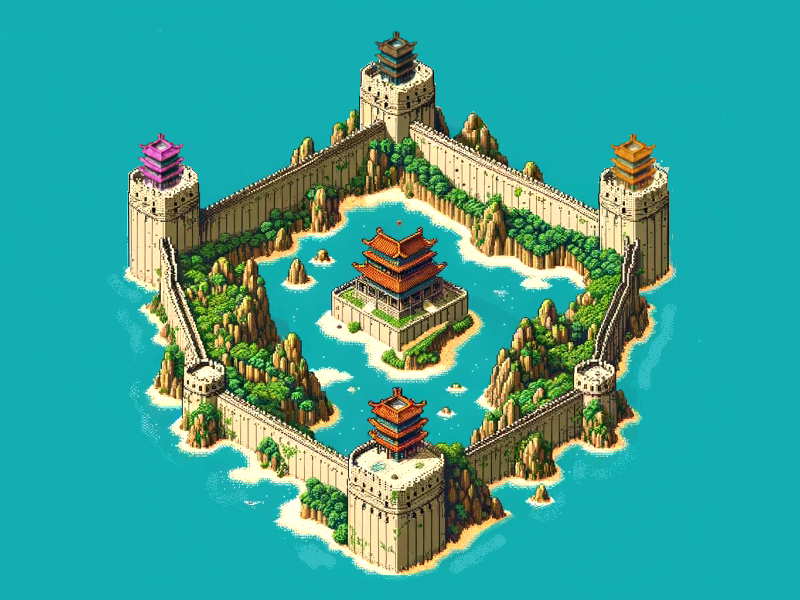
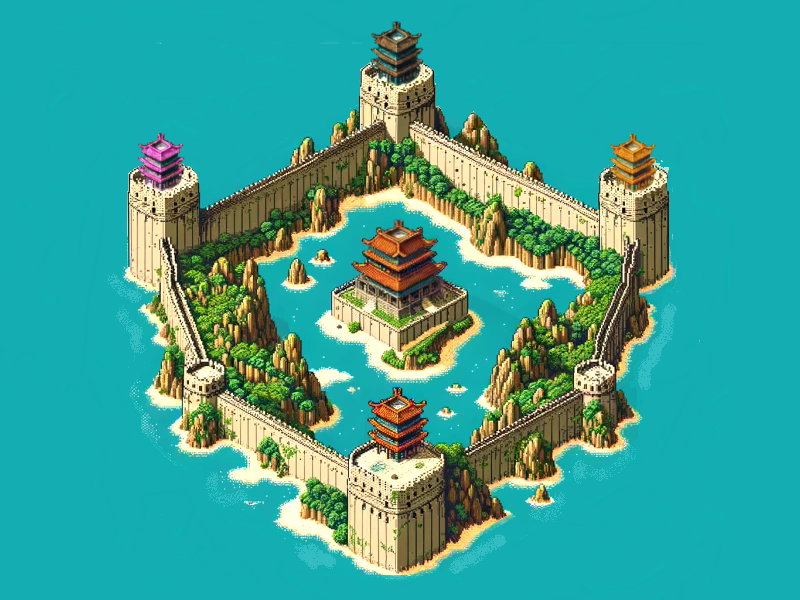
new map

Changed region(s): [[0.4375, 0.36, 0.5625, 0.54], [0.4688, 0.03, 0.5312, 0.15]]

diff --git a/pygame_template.py b/pygame_template.py
@@ -13,10 +13,12 @@ LEFTTEMP = pygame.image.load("images/templeleft.png")
 RIGHTTEMP = pygame.image.load("images/templeright.png")
 TOPTEMP = pygame.image.load("images/templetop.png")
 BOTTOMTEMP = pygame.image.load("images/templebottom.png")
+MIDDLETEMP = pygame.image.load("images/templemiddle.png")
 RESIZED_LEFTTEMP = pygame.transform.scale(LEFTTEMP, (110, 110))
 RESIZED_RIGHTTEMP = pygame.transform.scale(RIGHTTEMP, (110, 110))
 RESIZED_TOPTEMP = pygame.transform.scale(TOPTEMP, (103, 103))
 RESIZED_BOTTOMTEMP = pygame.transform.scale(BOTTOMTEMP, (120, 120))
+RESIZED_MIDDLETEMP = pygame.transform.scale(MIDDLETEMP, (150, 150))
 
 
 # Main Colours
@@ -57,6 +59,9 @@ while run:
   
   if (363<mouse_x<410 and 383<mouse_y<446):
     screen.blit(RESIZED_BOTTOMTEMP, (340, 352))
+  
+  if (350<mouse_x<450 and 220<mouse_y<380):
+    screen.blit(RESIZED_MIDDLETEMP, (326, 180))
 
 
   # Update the display
